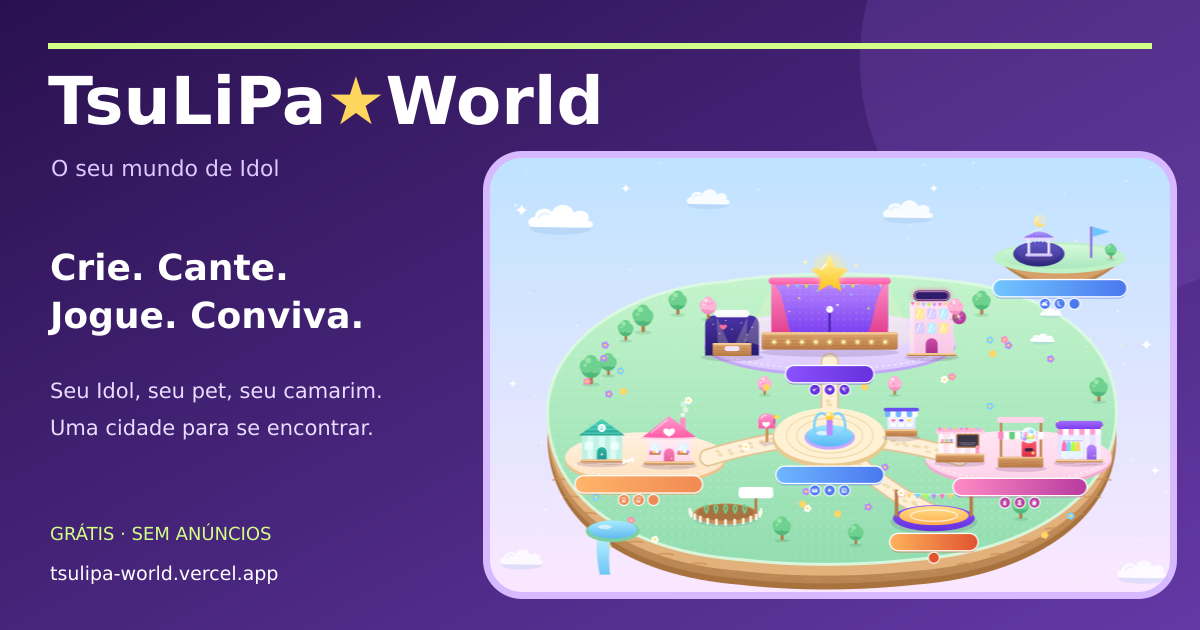
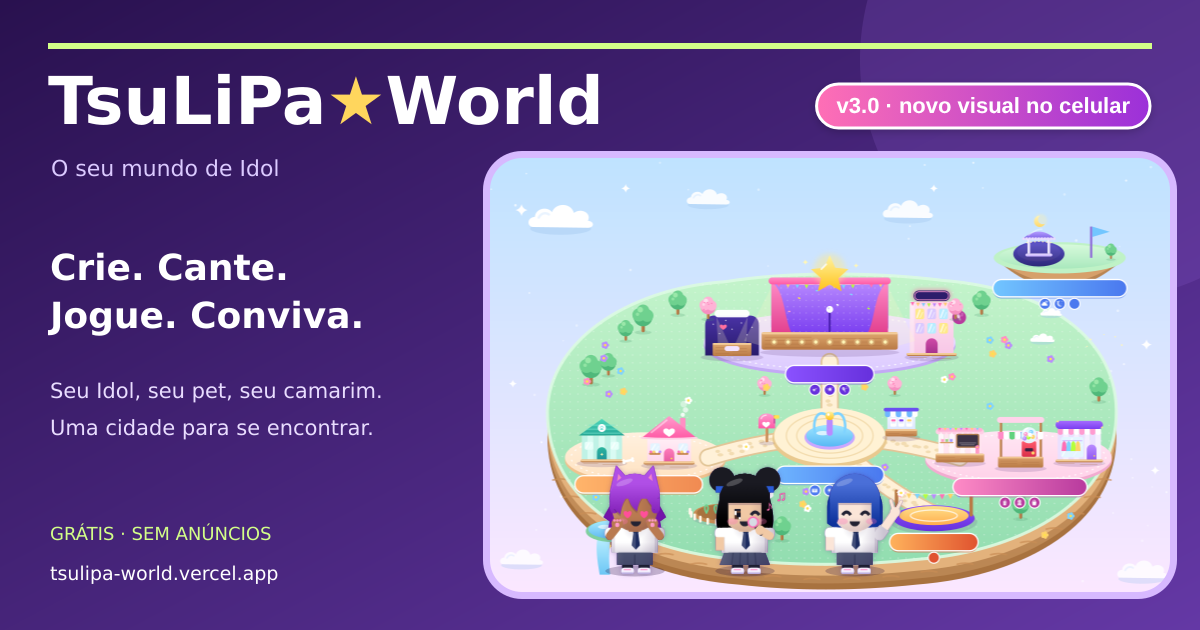
chore(og): prévia de link da v3.0 — selo "v3.0 · novo visual no celular" e o trio no mapa
Claude-Session: https://claude.ai/code/session_01S3d7J8ifJjeKFULZgPu5a7

diff --git a/index.html b/index.html
@@ -30,7 +30,7 @@
 <meta property="og:title" content="TsuLiPa⭐World">
 <meta property="og:description" content="Corra no Center⭐Run!, cante no Karaoke⭐Time!, cuide do seu pet, plante flores no Bloom⭐Garden!, monte a foto do dia no Photo⭐Studio! e dispute o Idol⭐Battle! Um jogo de fã do TsuLiPa (BRS48), grátis e sem anúncios.">
 <meta property="og:url" content="https://tsulipa-world.vercel.app/">
-<meta property="og:image" content="https://tsulipa-world.vercel.app/og-world.png?v=1">
+<meta property="og:image" content="https://tsulipa-world.vercel.app/og-world.png?v=2">
 <meta property="og:image:alt" content="TsuLiPa World: crie, cante, jogue e conviva. Mapa original da cidade dos Idols.">
 <meta property="og:image:type" content="image/png">
 <meta property="og:image:width" content="1200">
@@ -39,7 +39,7 @@
 <meta name="twitter:card" content="summary_large_image">
 <meta name="twitter:title" content="TsuLiPa⭐World">
 <meta name="twitter:description" content="Corra, cante, plante, fotografe e batalhe com o TsuLiPa: Center⭐Run!, Karaoke⭐Time!, Backstage⭐Pet!, Bloom⭐Garden!, Photo⭐Studio!, Idol⭐Battle! e mais.">
-<meta name="twitter:image" content="https://tsulipa-world.vercel.app/og-world.png?v=1">
+<meta name="twitter:image" content="https://tsulipa-world.vercel.app/og-world.png?v=2">
 <link rel="manifest" href="manifest.json">
 <meta name="google-site-verification" content="J49ekjyq4BDr6eOcluPFBIOG14ahyJAs0NrObrKJqOs" />
 <title>TsuLiPa⭐World</title>
